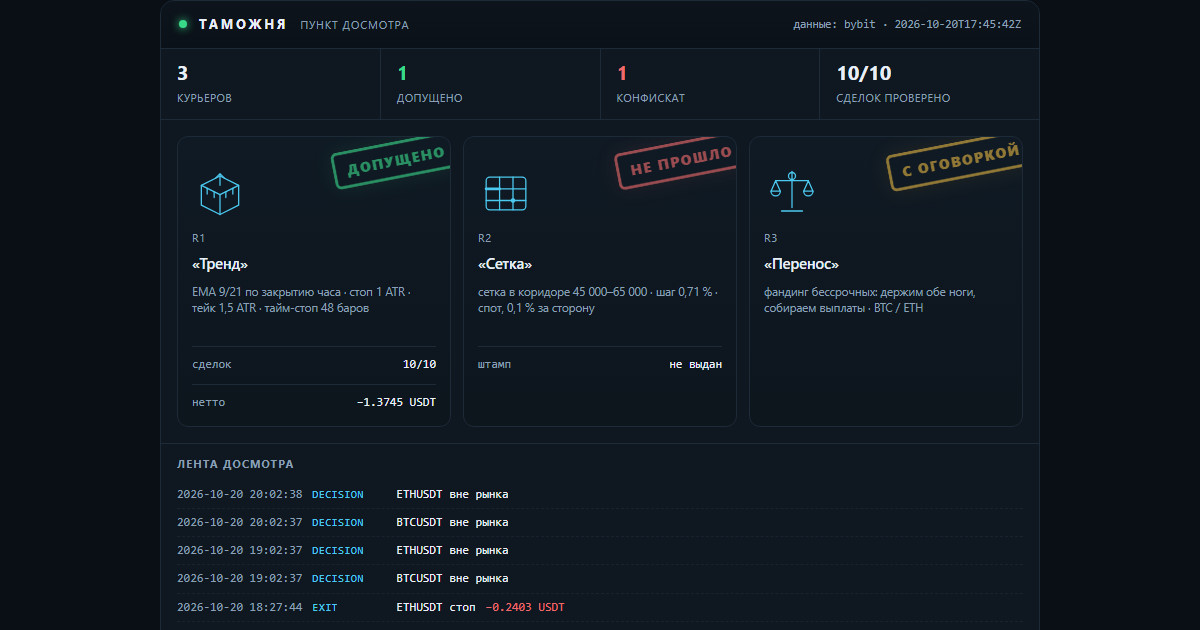
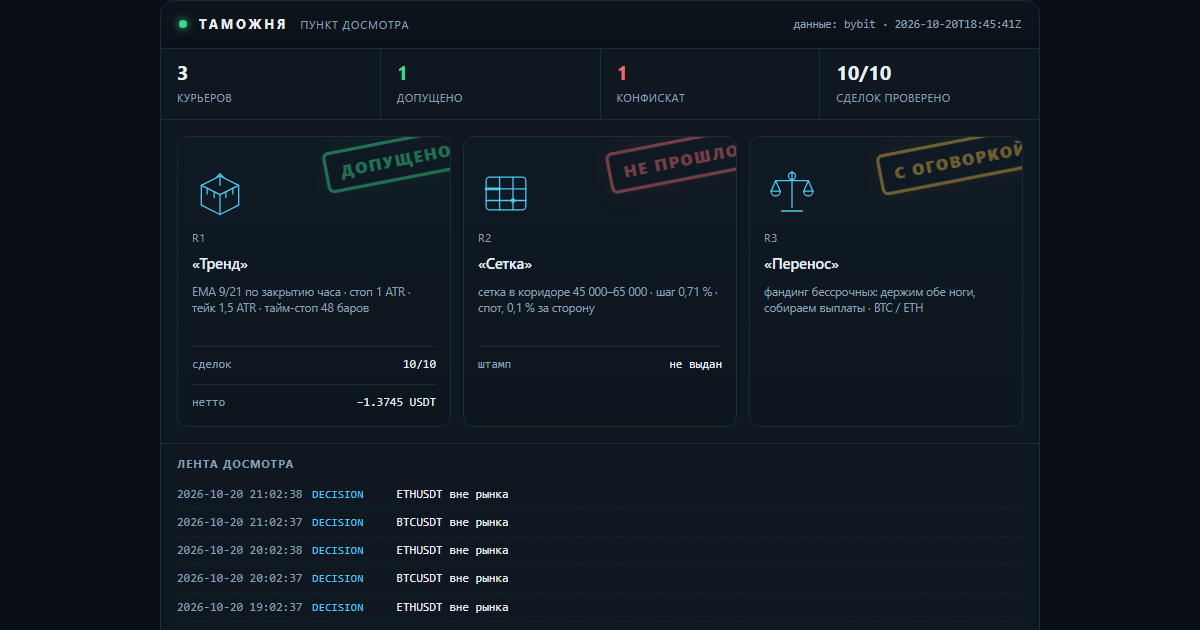
lab: таможня — свежие числа досмотра

diff --git a/docs/customs.html b/docs/customs.html
@@ -16,7 +16,7 @@
   <h1><a href="index.html">Gramwright Lab</a></h1>
   <p>Журнал проверки торговых гипотез: что проверяли, что вышло по факту, сколько съели издержки. Числа берутся из журнала стенда. Не инвестиционная рекомендация.</p>
 </header>
-<h1>Таможня</h1><p class="intro">Пункт досмотра заявленных результатов. Стратегии приезжают с грузом обещаний, и каждая проходит проверку по публичным данным биржи: цены существуют, комиссии по тарифу, нетто сходится. Что прошло — получает штамп. Что не прошло — в конфискат, с причиной. Штамп означает «записи подлинные», а не «стратегия прибыльна».</p><p><img src="img/customs.png" alt="Терминал досмотра: три курьера, штампы, лента событий" style="width:100%;height:auto;border:1px solid var(--line);border-radius:10px"></p><p class="c-note">Сверху — тот же терминал, что собирается из журналов: счётчики, эмблемы курьеров, штампы и лента последних событий. Ниже — то же самое текстом, чтобы читалось с телефона и индексировалось поиском.</p><article><h2>R1 «Тренд» <span class="verdict">— <span class="c-ok">допущено</span></span></h2><p><strong>Правило:</strong> EMA 9/21 по закрытию часа · стоп 1 ATR · тейк 1,5 ATR · тайм-стоп 48 баров</p><p><strong>Декларация:</strong> Заявлено до прогона: держать 30 сделок, лимит нотионала 10 % от счёта, стоп дня −1 %. Прибыль не заявлялась — это важно: курьер не обещал доход.</p><p><strong>Проверено по публичным свечам, без ключей:</strong> 10 из 10 сделок. Сумма нетто −1.3745 USDT.</p><ul class="c-chk"><li class="y">BTCUSDT: нетто −0.8746 USDT · комиссии 0.0901 · проверено · с поправкой</li><li class="y">BTCUSDT: нетто −0.5441 USDT · комиссии 0.0896 · проверено</li><li class="y">ETHUSDT: нетто −0.2253 USDT · комиссии 0.0266 · проверено</li><li class="y">ETHUSDT: нетто −0.1513 USDT · комиссии 0.0265 · проверено</li><li class="y">ETHUSDT: нетто +0.1984 USDT · комиссии 0.0262 · проверено</li><li class="y">ETHUSDT: нетто +0.1617 USDT · комиссии 0.0260 · проверено</li><li class="y">ETHUSDT: нетто +0.2645 USDT · комиссии 0.0263 · проверено</li><li class="y">BTCUSDT: нетто +0.6246 USDT · комиссии 0.0897 · проверено</li><li class="y">BTCUSDT: нетто −0.5881 USDT · комиссии 0.0910 · проверено</li><li class="y">ETHUSDT: нетто −0.2403 USDT · комиссии 0.0270 · проверено</li></ul><p class="tags">журнал sha256 82662bbfb2da8658… · проверяльщик verify-1</p><p class="c-note">Штамп означает: записи подлинные, а не что стратегия прибыльна. Курьер в минусе, и минус тоже стоит на штампе — иначе это была бы не проверка, а реклама.</p><p class="tags">источник: verify-report.json</p></article><article><h2>R2 «Сетка» <span class="verdict">— <span class="c-bad">не прошло</span></span></h2><p><strong>Правило:</strong> сетка в коридоре 45 000–65 000 · шаг 0,71 % · спот, 0,1 % за сторону</p><p><strong>Декларация:</strong> Заявлено: «44 % урожая уходит бирже в виде комиссий». Кроме того — перевес над простым владением монетой.</p><p><strong>Что сошлось:</strong></p><ul class="c-chk"><li class="y">сами числа пересчитаны и воспроизводятся: коридор 45–65k был активен 23 % всей истории и 28 % последних двух лет</li></ul><p><strong>Что не сошлось:</strong></p><ul class="c-chk"><li class="n">44 % не подтвердилось: при шаге 0,71 % и тарифе 0,1 % комиссия съедает 28,3 % шага. Чтобы получить 44 %, нужен шаг 0,45 % — это около 80 уровней, а не 50</li><li class="n">от урожая доля комиссий 85,5 % за всю историю и 49,6 % за последние два года — тоже не 44 %</li><li class="n">перевес над владением посчитан на тарифе 0,055 %: при нём +1,32 п. п., на розничном 0,1 % — −0,72 п. п. То есть перевес исчезает</li><li class="n">семилетний тест стартовал в сентябре 2019 при биткоине около 10 000 — ниже коридора. Он говорит, что фиксированный коридор не подходит для периода, а не что сетка отстаёт</li></ul><p class="tags">источник: lab_grid.py, пересчёт 17.10.2026</p></article><article><h2>R3 «Перенос» <span class="verdict">— <span class="c-warn">с оговоркой</span></span></h2><p><strong>Правило:</strong> фандинг бессрочных: держим обе ноги, собираем выплаты · BTC / ETH</p><p><strong>Декларация:</strong> Заявлено: около 11,9 % в год от выплат фандинга при просадке выплатной кривой меньше 2 %.</p><p><strong>Что сошлось:</strong></p><ul class="c-chk"><li class="y">выплаты взяты из публичной истории биржи, ключей не нужно: BTC — 7 190 выплат с 25.03.2020, ETH — 6 561 с 21.10.2020</li><li class="y">сумма сходится: +83,4 % и +83,2 % за 6,6 и 6,0 года — те самые ~11,9 % в год</li><li class="y">худшая просадка выплатной кривой: −1,65 % и −1,97 %</li></ul><p><strong>Что не сошлось:</strong></p><ul class="c-chk"><li class="n">оговорка 1: премию сжали — 2021 год дал +38,3 %, 2026 — +1,96 %. Прошлое не повторяется</li><li class="n">оговорка 2: вход-выход стоит около 0,31 %, капитала нужно 1,2 от нотионала, текущий базис −0,082 % против входа</li><li class="n">оговорка 3: риск площадки. История FTX в этой же таблице выглядела так же прилично</li></ul><p class="tags">источник: публичная история фандинга Bybit, замер 17.10.2026</p></article><div class="c-conf"><h3>Конфискат</h3><p><strong>«Сетка»: заявленные 44 % комиссий не подтвердились.</strong> Досмотр показал 28,3 % от шага и 85,5 % от урожая — цифра хуже заявленной по форме, но лучше по смыслу: сетку убивает не размер шага, а то, что урожай почти весь уходит в комиссии. Это и вышло в выпуск — с поправкой, а не с красивой цифрой.</p></div><p class="c-note">Пломба: <code>2026-10-20T17:45:42Z</code> · нотариус FreeTSA · Oct 20 17:45:42 2026 GMT · подпись подтверждена. Манифест скрепляет отчёт проверки, журнал сделок и декларации курьеров: подменишь любую цифру — пломба перестанет сходиться.</p><p class="c-note">Досмотр идёт по публичным минутным свечам и публичной истории фандинга — ключей у проверяющего нет, и он может повторить проверку сам.</p><p class="c-note">Контент образовательный, не является инвестиционной рекомендацией. Торговля связана с риском потери капитала.</p>
+<h1>Таможня</h1><p class="intro">Пункт досмотра заявленных результатов. Стратегии приезжают с грузом обещаний, и каждая проходит проверку по публичным данным биржи: цены существуют, комиссии по тарифу, нетто сходится. Что прошло — получает штамп. Что не прошло — в конфискат, с причиной. Штамп означает «записи подлинные», а не «стратегия прибыльна».</p><p><img src="img/customs.png" alt="Терминал досмотра: три курьера, штампы, лента событий" style="width:100%;height:auto;border:1px solid var(--line);border-radius:10px"></p><p class="c-note">Сверху — тот же терминал, что собирается из журналов: счётчики, эмблемы курьеров, штампы и лента последних событий. Ниже — то же самое текстом, чтобы читалось с телефона и индексировалось поиском.</p><article><h2>R1 «Тренд» <span class="verdict">— <span class="c-ok">допущено</span></span></h2><p><strong>Правило:</strong> EMA 9/21 по закрытию часа · стоп 1 ATR · тейк 1,5 ATR · тайм-стоп 48 баров</p><p><strong>Декларация:</strong> Заявлено до прогона: держать 30 сделок, лимит нотионала 10 % от счёта, стоп дня −1 %. Прибыль не заявлялась — это важно: курьер не обещал доход.</p><p><strong>Проверено по публичным свечам, без ключей:</strong> 10 из 10 сделок. Сумма нетто −1.3745 USDT.</p><ul class="c-chk"><li class="y">BTCUSDT: нетто −0.8746 USDT · комиссии 0.0901 · проверено · с поправкой</li><li class="y">BTCUSDT: нетто −0.5441 USDT · комиссии 0.0896 · проверено</li><li class="y">ETHUSDT: нетто −0.2253 USDT · комиссии 0.0266 · проверено</li><li class="y">ETHUSDT: нетто −0.1513 USDT · комиссии 0.0265 · проверено</li><li class="y">ETHUSDT: нетто +0.1984 USDT · комиссии 0.0262 · проверено</li><li class="y">ETHUSDT: нетто +0.1617 USDT · комиссии 0.0260 · проверено</li><li class="y">ETHUSDT: нетто +0.2645 USDT · комиссии 0.0263 · проверено</li><li class="y">BTCUSDT: нетто +0.6246 USDT · комиссии 0.0897 · проверено</li><li class="y">BTCUSDT: нетто −0.5881 USDT · комиссии 0.0910 · проверено</li><li class="y">ETHUSDT: нетто −0.2403 USDT · комиссии 0.0270 · проверено</li></ul><p class="tags">журнал sha256 e953ea710522dd06… · проверяльщик verify-1</p><p class="c-note">Штамп означает: записи подлинные, а не что стратегия прибыльна. Курьер в минусе, и минус тоже стоит на штампе — иначе это была бы не проверка, а реклама.</p><p class="tags">источник: verify-report.json</p></article><article><h2>R2 «Сетка» <span class="verdict">— <span class="c-bad">не прошло</span></span></h2><p><strong>Правило:</strong> сетка в коридоре 45 000–65 000 · шаг 0,71 % · спот, 0,1 % за сторону</p><p><strong>Декларация:</strong> Заявлено: «44 % урожая уходит бирже в виде комиссий». Кроме того — перевес над простым владением монетой.</p><p><strong>Что сошлось:</strong></p><ul class="c-chk"><li class="y">сами числа пересчитаны и воспроизводятся: коридор 45–65k был активен 23 % всей истории и 28 % последних двух лет</li></ul><p><strong>Что не сошлось:</strong></p><ul class="c-chk"><li class="n">44 % не подтвердилось: при шаге 0,71 % и тарифе 0,1 % комиссия съедает 28,3 % шага. Чтобы получить 44 %, нужен шаг 0,45 % — это около 80 уровней, а не 50</li><li class="n">от урожая доля комиссий 85,5 % за всю историю и 49,6 % за последние два года — тоже не 44 %</li><li class="n">перевес над владением посчитан на тарифе 0,055 %: при нём +1,32 п. п., на розничном 0,1 % — −0,72 п. п. То есть перевес исчезает</li><li class="n">семилетний тест стартовал в сентябре 2019 при биткоине около 10 000 — ниже коридора. Он говорит, что фиксированный коридор не подходит для периода, а не что сетка отстаёт</li></ul><p class="tags">источник: lab_grid.py, пересчёт 17.10.2026</p></article><article><h2>R3 «Перенос» <span class="verdict">— <span class="c-warn">с оговоркой</span></span></h2><p><strong>Правило:</strong> фандинг бессрочных: держим обе ноги, собираем выплаты · BTC / ETH</p><p><strong>Декларация:</strong> Заявлено: около 11,9 % в год от выплат фандинга при просадке выплатной кривой меньше 2 %.</p><p><strong>Что сошлось:</strong></p><ul class="c-chk"><li class="y">выплаты взяты из публичной истории биржи, ключей не нужно: BTC — 7 190 выплат с 25.03.2020, ETH — 6 561 с 21.10.2020</li><li class="y">сумма сходится: +83,4 % и +83,2 % за 6,6 и 6,0 года — те самые ~11,9 % в год</li><li class="y">худшая просадка выплатной кривой: −1,65 % и −1,97 %</li></ul><p><strong>Что не сошлось:</strong></p><ul class="c-chk"><li class="n">оговорка 1: премию сжали — 2021 год дал +38,3 %, 2026 — +1,96 %. Прошлое не повторяется</li><li class="n">оговорка 2: вход-выход стоит около 0,31 %, капитала нужно 1,2 от нотионала, текущий базис −0,082 % против входа</li><li class="n">оговорка 3: риск площадки. История FTX в этой же таблице выглядела так же прилично</li></ul><p class="tags">источник: публичная история фандинга Bybit, замер 17.10.2026</p></article><div class="c-conf"><h3>Конфискат</h3><p><strong>«Сетка»: заявленные 44 % комиссий не подтвердились.</strong> Досмотр показал 28,3 % от шага и 85,5 % от урожая — цифра хуже заявленной по форме, но лучше по смыслу: сетку убивает не размер шага, а то, что урожай почти весь уходит в комиссии. Это и вышло в выпуск — с поправкой, а не с красивой цифрой.</p></div><p class="c-note">Пломба: <code>2026-10-20T18:45:41Z</code> · нотариус FreeTSA · Oct 20 18:45:41 2026 GMT · подпись подтверждена. Манифест скрепляет отчёт проверки, журнал сделок и декларации курьеров: подменишь любую цифру — пломба перестанет сходиться.</p><p class="c-note">Досмотр идёт по публичным минутным свечам и публичной истории фандинга — ключей у проверяющего нет, и он может повторить проверку сам.</p><p class="c-note">Контент образовательный, не является инвестиционной рекомендацией. Торговля связана с риском потери капитала.</p>
 <footer class="site">
   Код стенда и аудитора: <a href="https://github.com/XSlaidx/truth-engine">XSlaidx/truth-engine</a>
   &middot; <a href="graveyard.html">кладбище правил</a>
